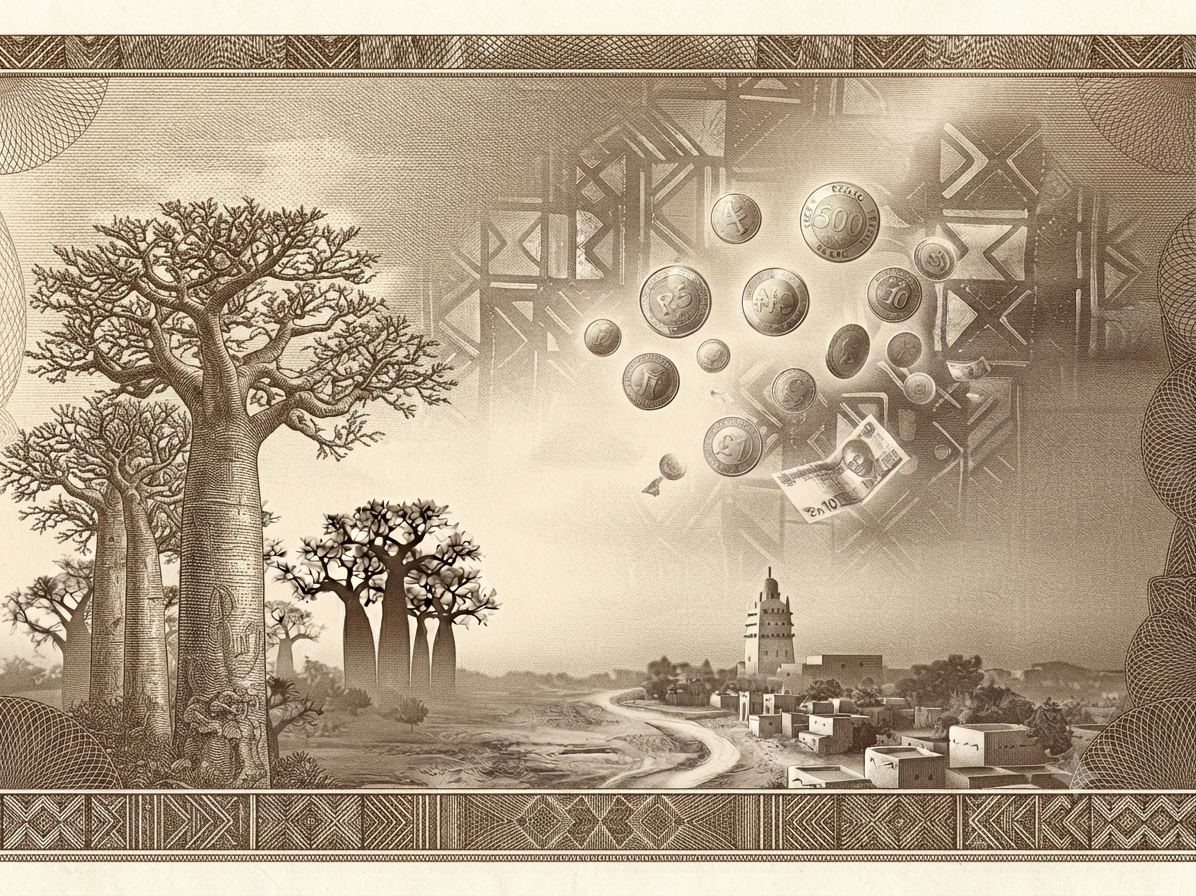
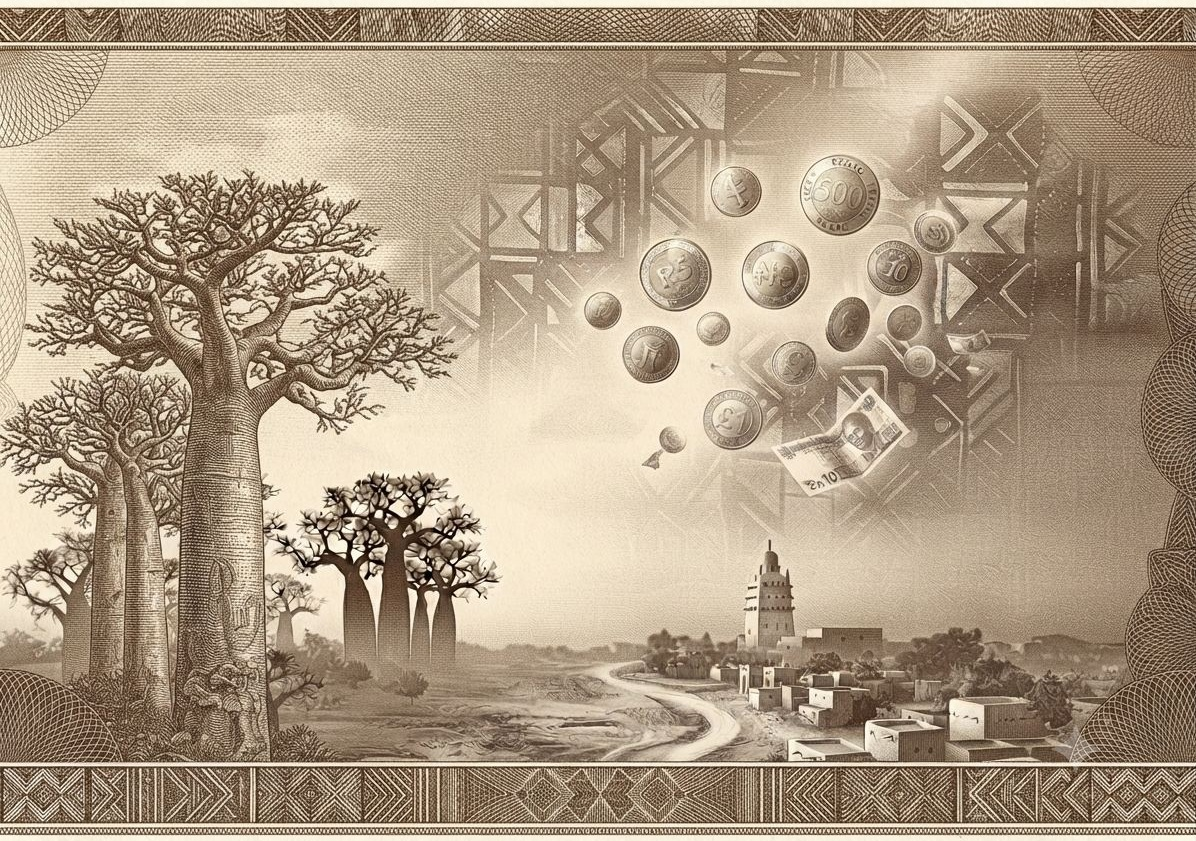
darkmood

diff --git a/frontend/src/styles/globals.css b/frontend/src/styles/globals.css
@@ -3282,9 +3282,36 @@ label {
   }
   .btn-outline:hover { background: var(--surface-sunken); }
 
-  /* ── Login screen ── */
-  .login-screen { background: var(--cream); }
-  .login-screen::before { opacity: 0.12; }
+  /* ── App shell background — swap to dark hero image ── */
+  .app-shell {
+    background:
+      linear-gradient(rgba(10, 10, 20, 0.78), rgba(10, 10, 20, 0.78)),
+      url('../assets/darkmood.jpg');
+    background-size: cover, cover;
+    background-position: center, center;
+    background-repeat: no-repeat, no-repeat;
+  }
+
+  /* ── Login screen — swap to dark hero image ── */
+  .login-screen {
+    background:
+      linear-gradient(rgba(5, 8, 20, 0.55), rgba(5, 8, 20, 0.55)),
+      url('../assets/darkmood.jpg');
+    background-size: cover, cover;
+    background-position: center, center;
+    background-repeat: no-repeat, no-repeat;
+  }
+
+  /* ── Landing hero — swap to dark hero image ── */
+  .landing-hero {
+    background:
+      linear-gradient(rgba(5, 8, 20, 0.52), rgba(5, 8, 20, 0.52)),
+      url('../assets/darkmood.jpg');
+    background-size: cover, cover;
+    background-position: center, center;
+    background-repeat: no-repeat, no-repeat;
+  }
+
   .login-card {
     background: rgba(26, 29, 39, 0.82);
     border: 1px solid rgba(255, 255, 255, 0.08);
